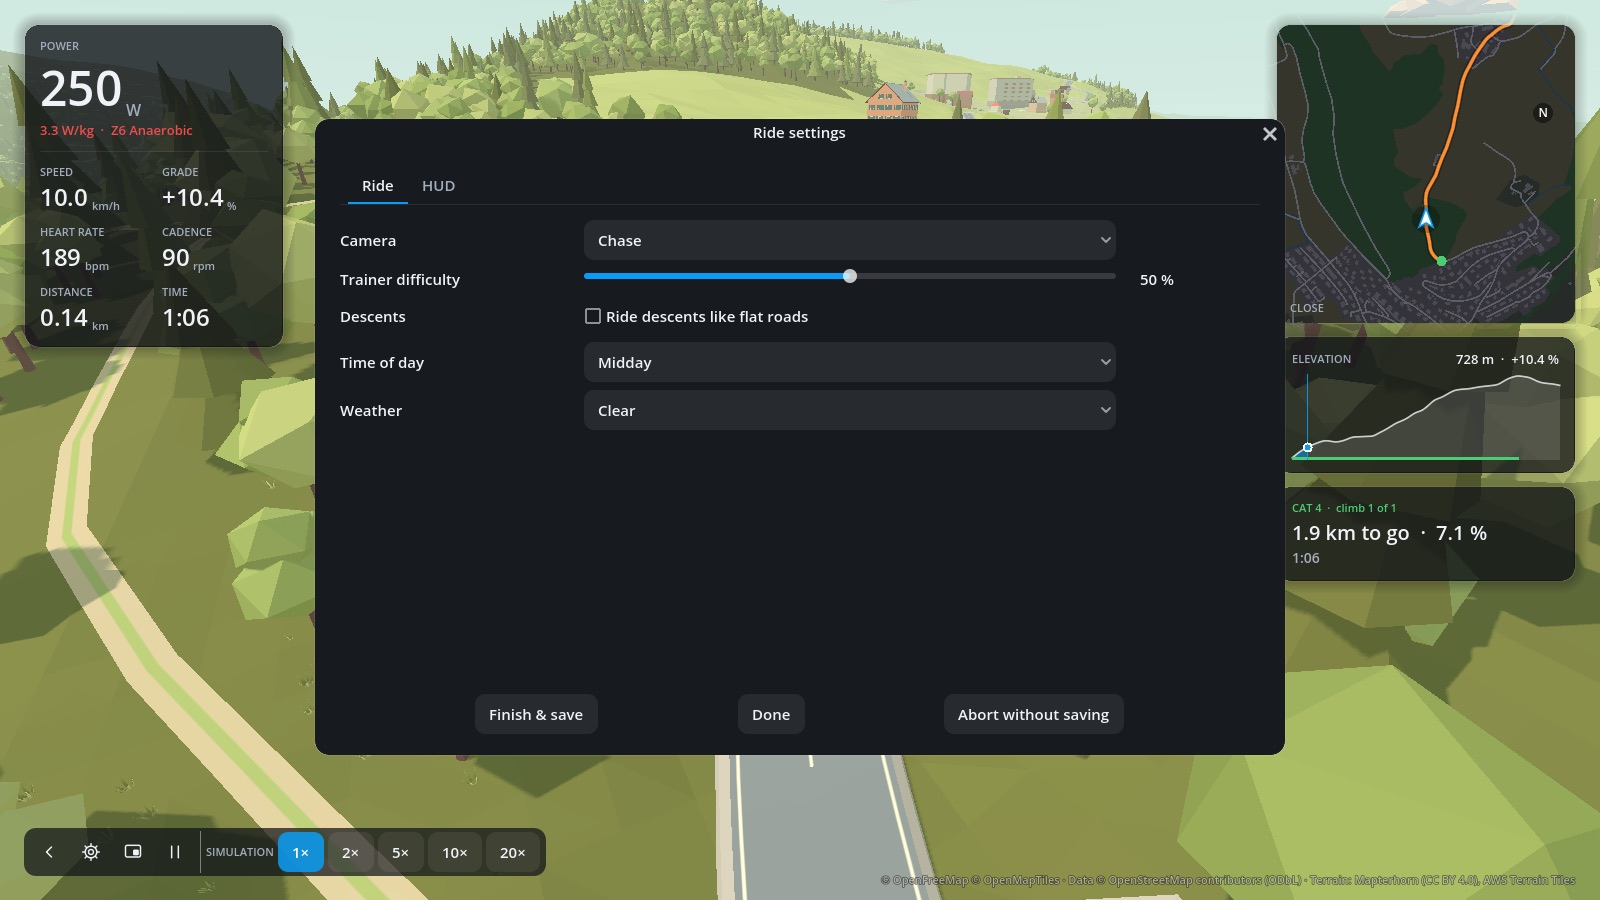
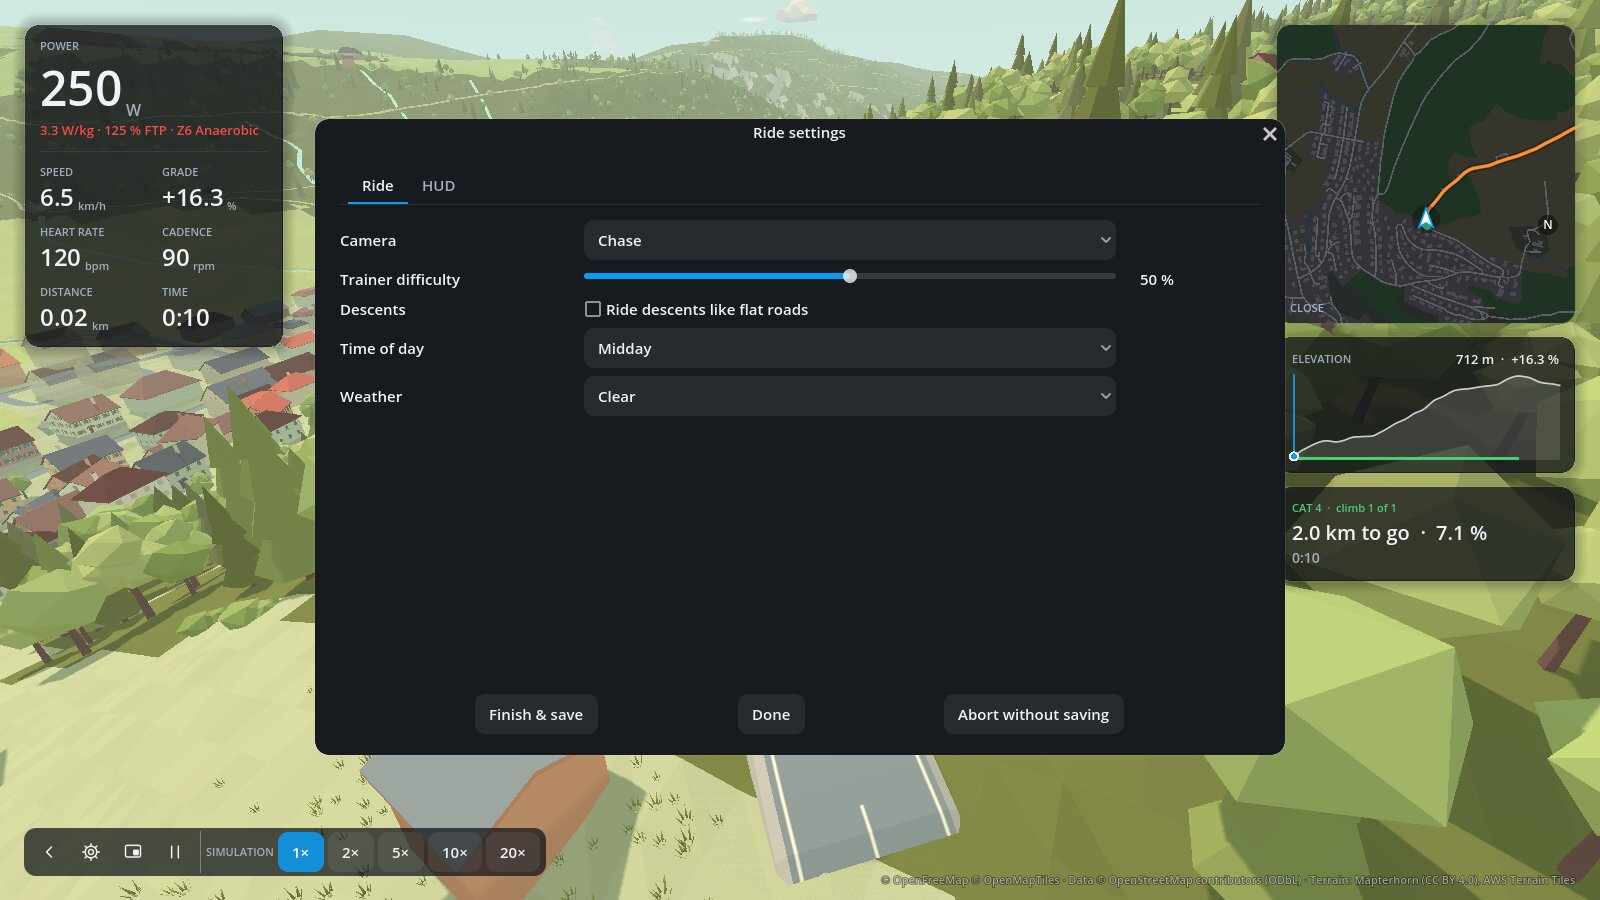
feat(hud): power in % of FTP under a large power figure
The line under a large power figure reads "3.3 W/kg · 125 % FTP · Z6
Anaerobic"; without an FTP the percentage is left out. Single-spaced
separators keep zones 1-6 within the HUD's width. Zone 7 is wider, so
the line keeps the widest width it has had and the HUD does not jump in
width as a sprint crosses between zones 6 and 7.

The HUD's smoke checks move from ui_smoke.gd, which reached gdlint's
1000-line limit, into hud_smoke.gd.

diff --git a/docs/hud.md b/docs/hud.md
@@ -13,8 +13,8 @@ The editor shows the **HUD** itself with example values, and the figures still *
   with a click.
 - **Move** figures by dragging them within the HUD, and **drag them back** onto the available
   list to remove them.
-- The **first** figure is shown large at the top; with power figures, your W/kg and power zone
-  appear below it. Up to 13 figures in total.
+- The **first** figure is shown large at the top; with power figures, your W/kg, power in % of
+  your FTP and power zone appear below it. Up to 13 figures in total.
 
 ![The HUD editor in the ride settings, a figure being dragged into the HUD](images/app/hud-editor.jpg)
 

diff --git a/docs/PLAN.md b/docs/PLAN.md
@@ -140,7 +140,7 @@ Built in rideable steps:
 - [x] Zones shown and adjustable per rider (#173); a rider's default trainer difficulty (#175);
   riders deleted with their rides, after asking
 - [x] Customizable HUD (R23); an ascent-to-go figure (#174); power in % of FTP and heart
-  rate in % of the maximum
+  rate in % of the maximum; % of FTP also under a large power figure, beside W/kg and zone
 - [x] Estimated time to the finish (R66, #231): on the course page at 75 % of FTP, as a
   time-to-go figure on the HUD from the rider's average power so far
 - [x] Simulation with the fake trainer: speed-up, jumps on map/profile, free camera (#53)
